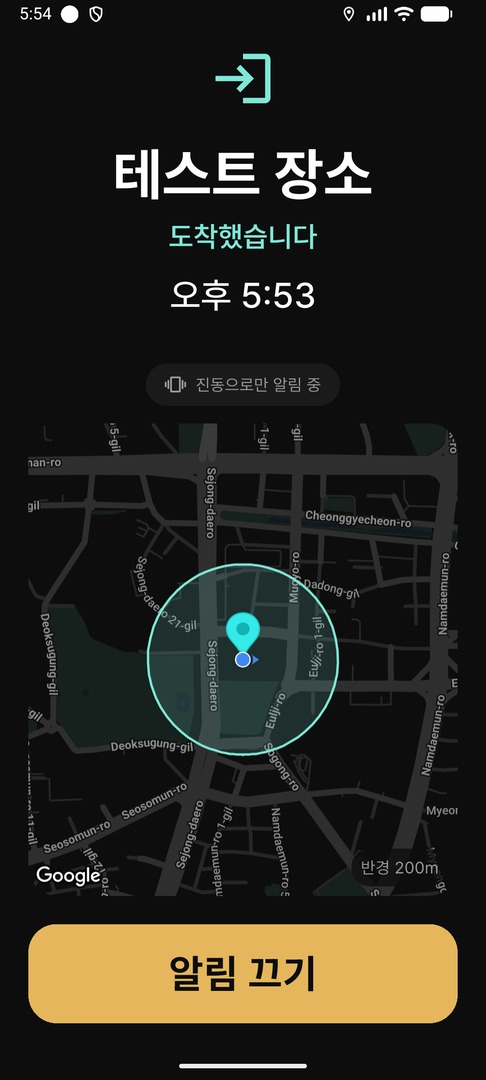
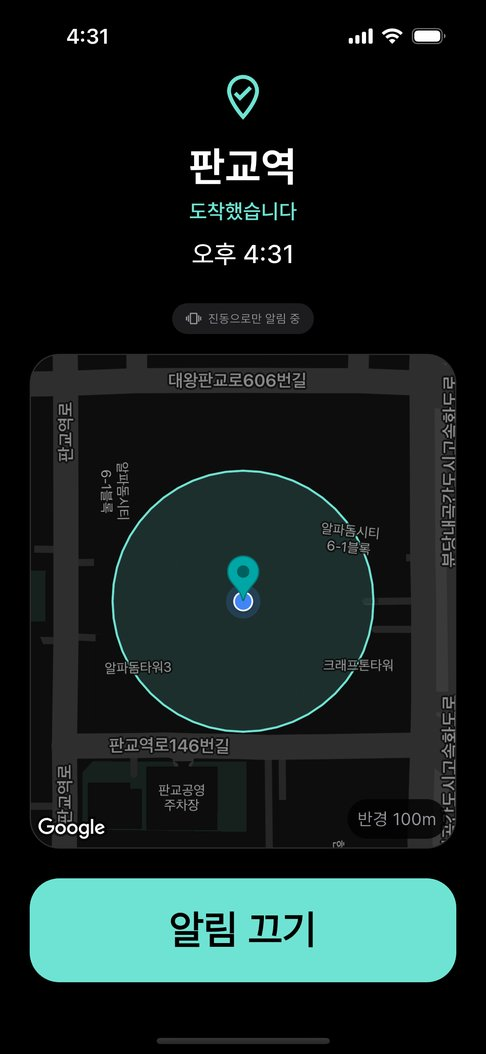
소개 페이지를 v1.35 화면으로 바꾸고 라이트·다크와 스마트워치 안내를 더한다 : docs : 스크린샷 6장을 새 디자인으로 교체하고 주 버튼 색을 민트로 맞춘다 https://github.com/Cassiiopeia/EarLocAlert/issues/276

diff --git a/index.html b/index.html
@@ -64,7 +64,7 @@
     </div>
 
     <div class="hero-art">
-      <img class="phone" src="shots/alert.jpg" width="486" height="1080"
+      <img class="phone" src="shots/alert.jpg" width="486" height="1054"
            alt="도착 알림 화면. 장소 이름과 도착 시각, 주변 지도, 화면 아래 알림 끄기 버튼이 보인다.">
     </div>
   </div>
@@ -126,6 +126,26 @@
         <h3>진동 세기 조절</h3>
         <p>이어폰이 없을 때는 진동이 유일한 수단입니다. 약함·보통·강함 세 단계로 맞출 수 있습니다.</p>
       </div>
+
+      <div class="card">
+        <div class="ico">
+          <svg width="21" height="21" viewBox="0 0 24 24" fill="none" stroke="currentColor" stroke-width="2" stroke-linecap="round" stroke-linejoin="round" aria-hidden="true">
+            <circle cx="12" cy="12" r="9"></circle><path d="M12 3v18"></path><path d="M12 3a9 9 0 0 1 0 18z" fill="currentColor"></path>
+          </svg>
+        </div>
+        <h3>라이트 · 다크 모드</h3>
+        <p>기기 설정을 따르거나 설정에서 직접 고릅니다. 알림 화면은 밤 버스에서도 눈부시지 않게 언제나 어둡게 뜹니다.</p>
+      </div>
+
+      <div class="card">
+        <div class="ico">
+          <svg width="21" height="21" viewBox="0 0 24 24" fill="none" stroke="currentColor" stroke-width="2" stroke-linecap="round" stroke-linejoin="round" aria-hidden="true">
+            <rect x="6" y="6" width="12" height="12" rx="3"></rect><path d="M9 6l1-3h4l1 3M9 18l1 3h4l1-3"></path>
+          </svg>
+        </div>
+        <h3>스마트워치로도</h3>
+        <p>갤럭시 워치·Apple Watch 에서 알림을 받는 방법을 앱이 안내합니다. 손목으로도 도착을 알 수 있습니다.</p>
+      </div>
     </div>
   </div>
 </section>
@@ -136,27 +156,27 @@
     <p class="sec-lead">어두운 곳에서 눈이 부시지 않게, 급할 때 헷갈리지 않게 만들었습니다.</p>
     <div class="shots">
       <figure class="shot" style="margin:0">
-        <img class="phone" src="shots/home.jpg" width="486" height="1080" alt="지도 위에 등록한 장소가 표시된 홈 화면">
+        <img class="phone" src="shots/home.jpg" width="486" height="1054" alt="지도 위에 등록한 장소가 표시된 홈 화면">
         <figcaption>등록한 장소</figcaption>
       </figure>
       <figure class="shot" style="margin:0">
-        <img class="phone" src="shots/form.jpg" width="486" height="1080" alt="장소 등록 화면. 반경, 알림 시점, 이어폰 소리 설정이 보인다.">
+        <img class="phone" src="shots/form.jpg" width="486" height="1054" alt="장소 편집 화면. 지도 미리보기, 반경, 도착·출발·둘 다 선택, 알림 시간대가 보인다.">
         <figcaption>장소 등록</figcaption>
       </figure>
       <figure class="shot" style="margin:0">
-        <img class="phone" src="shots/sound.jpg" width="486" height="1080" alt="알림음 선택 화면. 기본 제공 음원 다섯 가지와 내 음원 추가 버튼.">
+        <img class="phone" src="shots/sound.jpg" width="486" height="1054" alt="알림음 선택 화면. 기본 제공 음원 다섯 가지와 내 음원 추가 버튼.">
         <figcaption>알림음 선택</figcaption>
       </figure>
       <figure class="shot" style="margin:0">
-        <img class="phone" src="shots/alert.jpg" width="486" height="1080" alt="도착 알림 화면. 장소 이름과 도착 시각, 주변 지도, 알림 끄기 버튼.">
+        <img class="phone" src="shots/alert.jpg" width="486" height="1054" alt="도착 알림 화면. 장소 이름과 도착 시각, 주변 지도, 알림 끄기 버튼.">
         <figcaption>도착 알림</figcaption>
       </figure>
       <figure class="shot" style="margin:0">
-        <img class="phone" src="shots/settings.jpg" width="486" height="1080" alt="설정 화면. 진동 세기, 알림음 크기, 권한 상태가 보인다.">
+        <img class="phone" src="shots/settings.jpg" width="486" height="1054" alt="설정 화면. 진동 세기, 알림음 크기, 잠금화면 알람, 워치로 알림 받기가 보인다.">
         <figcaption>설정</figcaption>
       </figure>
       <figure class="shot" style="margin:0">
-        <img class="phone" src="shots/splash.jpg" width="486" height="1080" alt="앱 시작 화면. 어두운 배경 가운데 앱 로고가 있다.">
+        <img class="phone" src="shots/splash.jpg" width="486" height="1054" alt="앱 시작 화면. 어두운 배경 가운데 앱 로고가 있다.">
         <figcaption>앱을 열 때</figcaption>
       </figure>
     </div>

diff --git a/style.css b/style.css
@@ -84,7 +84,7 @@ h1 .hl { color: var(--mint); }
   display: inline-flex; align-items: center; gap: 9px;
   padding: 14px 26px; border-radius: 14px; font-weight: 700; font-size: 16px;
 }
-.btn-primary { background: var(--amber); color: #1a1408; }
+.btn-primary { background: var(--mint); color: #04130f; }
 .btn-primary:hover { text-decoration: none; filter: brightness(1.06); }
 .btn-ghost { border: 1px solid var(--line); color: var(--text); }
 .btn-ghost:hover { text-decoration: none; background: var(--surface); }
